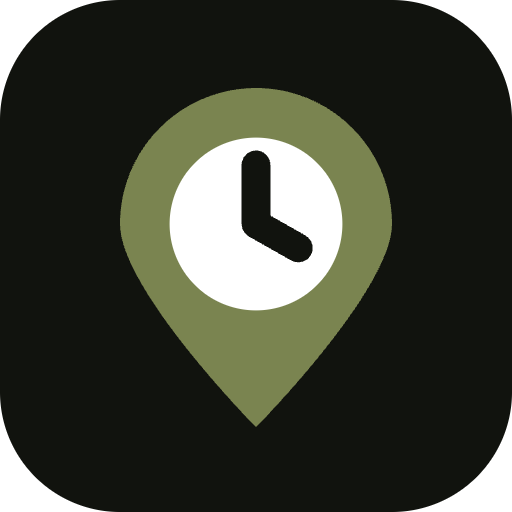
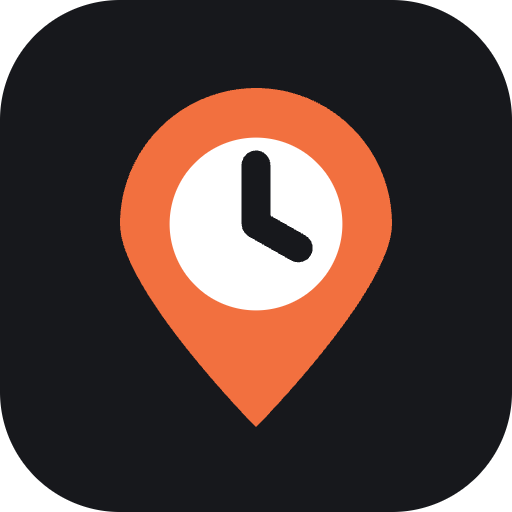
Nová paleta Mandarinka: téměř černá, mandarinková a neutrální pozadí
Olivová paleta se nelíbila. Barvy jsou v tokenech, logo, ikony aplikace (SVG i PNG),
mapa, univerzální obrázek služby, manifest a e-maily používají stejné hodnoty.
Textové kombinace splňují WCAG AA.

Changed region(s): [[0.2188, 0.1562, 0.7812, 0.8438]]

diff --git a/src/styles.css b/src/styles.css
@@ -10,26 +10,25 @@
      only for headlines and the wordmark — that is where the brand gets a voice. */
   --font-sans: 'Instrument Sans Variable', ui-sans-serif, system-ui, sans-serif;
 
-  /* FLEK: olive identity, sage/celadon surfaces, walnut emphasis.
-     Dark olive is the accessible text/button counterpart to brand olive. */
-  --color-surface: #f7f8f3;
+  /* FLEK „Mandarinka“: near-black ink, one warm tangerine, quiet neutral ground.
+     Brand is a FILL and a highlight on dark blocks (6.1:1 with ink both ways); on white it
+     is only ever a graphic, never text (2.9:1). Accent is the same hue darkened for links,
+     icons and outlines (5.5:1 on white). Every text pair here was measured against WCAG AA. */
+  --color-surface: #f6f5f3;
   --color-card: #ffffff;
-  --color-ink: #11130e;
-  --color-muted: #5c6055;
-  --color-line: #dce1d3;
-  --color-brand: #7a8450;
-  --color-sage: #aebd93;
-  --color-celadon: #bee7b8;
-  --color-walnut: #4c2e05;
-  --color-granite: #95969d;
-  --color-accent: #596337;
+  --color-ink: #17181c;
+  --color-muted: #5e616b;
+  --color-line: #e7e5e1;
+  --color-brand: #f2703f;
+  --color-brand-soft: #ffd9c6;
+  --color-accent: #b4460f;
   --color-accent-ink: #ffffff;
-  --color-accent-soft: #eef2e7;
-  --color-positive: #496337;
-  --color-warning: #805700;
-  --color-warning-soft: #fbf2df;
-  --color-danger: #a12d36;
-  --color-danger-soft: #fceeef;
+  --color-accent-soft: #fdeee6;
+  --color-positive: #1e7a4c;
+  --color-warning: #8a6100;
+  --color-warning-soft: #fff4d6;
+  --color-danger: #b3261e;
+  --color-danger-soft: #fdecea;
 
   /* The whole scale. Roles, so a new screen does not invent a thirteenth combination:
      2xl/800 page heading · xl/800 price and time · lg/800 section heading ·
@@ -52,8 +51,8 @@
   --radius-3xl: 2rem;
 
   /* Depth used to come from a hairline. These are what separate a card from the ground now. */
-  --shadow-card: 0 1px 2px rgb(34 40 43 / 0.05), 0 6px 16px -8px rgb(34 40 43 / 0.12);
-  --shadow-lift: 0 2px 4px rgb(34 40 43 / 0.06), 0 14px 32px -12px rgb(34 40 43 / 0.2);
+  --shadow-card: 0 1px 2px rgb(23 24 28 / 0.05), 0 6px 16px -8px rgb(23 24 28 / 0.12);
+  --shadow-lift: 0 2px 4px rgb(23 24 28 / 0.06), 0 14px 32px -12px rgb(23 24 28 / 0.2);
 }
 
 @layer base {
@@ -125,11 +124,11 @@
     color: var(--color-accent-ink);
   }
   .btn-primary:hover {
-    background: #11161a;
+    background: #2a2c33;
   }
 
-  /* A pin is the service itself: its photo in a compact FLEK tile over a walnut price tab.
-     Several places that overlap become one branded count with the lowest price below. */
+  /* A pin is the service itself: its photo in a compact FLEK tile over an ink price tab.
+     Several places that overlap become one ink count with a tangerine halo and the lowest price. */
   .map-pin,
   .map-cluster {
     position: relative;
@@ -159,7 +158,7 @@
     border: 2px solid var(--color-card);
     border-radius: 15px;
     background: var(--color-accent-soft);
-    box-shadow: 0 5px 12px -3px rgb(37 41 31 / 0.36);
+    box-shadow: 0 5px 12px -3px rgb(23 24 28 / 0.36);
     transition: border-color 150ms;
   }
   .map-pin-photo img { display: block; width: 100%; height: 100%; object-fit: cover; }
@@ -177,7 +176,7 @@
     margin-top: -8px;
     padding: 0 8px;
     border-radius: 8px;
-    background: var(--color-walnut);
+    background: var(--color-ink);
     color: var(--color-card);
     font-size: 0.8125rem;
     line-height: 1;
@@ -200,7 +199,7 @@
     box-shadow: 0 0 0 2px var(--color-card);
   }
   .map-pin.is-selected { z-index: 2; transform: translateY(-3px) scale(1.12); }
-  .map-pin.is-selected .map-pin-photo { border-color: var(--color-brand); box-shadow: 0 0 0 3px color-mix(in srgb, var(--color-brand) 35%, transparent), 0 6px 14px -3px rgb(37 41 31 / 0.4); }
+  .map-pin.is-selected .map-pin-photo { border-color: var(--color-brand); box-shadow: 0 0 0 3px color-mix(in srgb, var(--color-brand) 35%, transparent), 0 6px 14px -3px rgb(23 24 28 / 0.4); }
   .map-pin.is-selected .map-pin-price { background: var(--color-brand); color: var(--color-ink); }
 
   .map-cluster-count {
@@ -209,10 +208,10 @@
     width: 46px;
     height: 46px;
     border-radius: 15px;
-    background: var(--color-walnut);
+    background: var(--color-ink);
     color: var(--color-card);
     font-size: 1rem;
-    box-shadow: 0 0 0 5px rgb(174 189 147 / 0.6), 0 0 0 7px rgb(255 255 255 / 0.72), 0 6px 14px -4px rgb(37 41 31 / 0.4);
+    box-shadow: 0 0 0 5px rgb(242 112 63 / 0.45), 0 0 0 7px rgb(255 255 255 / 0.72), 0 6px 14px -4px rgb(23 24 28 / 0.4);
   }
   .map-cluster-price {
     margin-top: 2px;

diff --git a/supabase/templates/confirmation.html b/supabase/templates/confirmation.html
@@ -5,20 +5,20 @@
     <meta name="viewport" content="width=device-width, initial-scale=1">
     <title>Potvrď svůj e-mail pro FLEK</title>
   </head>
-  <body style="margin:0;background:#f7f8f3;color:#11130e;font-family:Arial,sans-serif">
+  <body style="margin:0;background:#f6f5f3;color:#17181c;font-family:Arial,sans-serif">
     <table role="presentation" width="100%" cellspacing="0" cellpadding="0" style="padding:32px 16px">
       <tr>
         <td align="center">
           <table role="presentation" width="100%" cellspacing="0" cellpadding="0" style="max-width:520px;background:#fff;border-radius:24px;padding:32px">
-            <tr><td style="font-size:34px;font-weight:800;letter-spacing:-1.5px">flek<span style="color:#7a8450">′</span></td></tr>
+            <tr><td style="font-size:34px;font-weight:800;letter-spacing:-1.5px">flek<span style="color:#f2703f">′</span></td></tr>
             <tr><td style="padding-top:28px;font-size:24px;font-weight:800">Potvrď svůj e-mail</td></tr>
-            <tr><td style="padding-top:12px;font-size:16px;line-height:1.55;color:#5c6055">Jedním kliknutím aktivuješ svůj účet a můžeš pokračovat tam, kde jsi skončil/a.</td></tr>
+            <tr><td style="padding-top:12px;font-size:16px;line-height:1.55;color:#5e616b">Jedním kliknutím aktivuješ svůj účet a můžeš pokračovat tam, kde jsi skončil/a.</td></tr>
             <tr>
               <td style="padding-top:24px">
-                <a href="{{ .SiteURL }}/potvrzeni?token_hash={{ .TokenHash }}&amp;type=email" style="display:block;border-radius:14px;background:#4c2e05;padding:15px 20px;color:#fff;text-align:center;font-size:16px;font-weight:700;text-decoration:none">Potvrdit e-mail</a>
+                <a href="{{ .SiteURL }}/potvrzeni?token_hash={{ .TokenHash }}&amp;type=email" style="display:block;border-radius:14px;background:#17181c;padding:15px 20px;color:#fff;text-align:center;font-size:16px;font-weight:700;text-decoration:none">Potvrdit e-mail</a>
               </td>
             </tr>
-            <tr><td style="padding-top:20px;font-size:13px;line-height:1.5;color:#5c6055">Pokud jsi účet nezakládal/a, e-mail můžeš ignorovat.</td></tr>
+            <tr><td style="padding-top:20px;font-size:13px;line-height:1.5;color:#5e616b">Pokud jsi účet nezakládal/a, e-mail můžeš ignorovat.</td></tr>
           </table>
         </td>
       </tr>

diff --git a/supabase/templates/recovery.html b/supabase/templates/recovery.html
@@ -5,20 +5,20 @@
     <meta name="viewport" content="width=device-width, initial-scale=1">
     <title>Obnova hesla — FLEK</title>
   </head>
-  <body style="margin:0;background:#f7f8f3;color:#11130e;font-family:Arial,sans-serif">
+  <body style="margin:0;background:#f6f5f3;color:#17181c;font-family:Arial,sans-serif">
     <table role="presentation" width="100%" cellspacing="0" cellpadding="0" style="padding:32px 16px">
       <tr>
         <td align="center">
           <table role="presentation" width="100%" cellspacing="0" cellpadding="0" style="max-width:520px;background:#fff;border-radius:24px;padding:32px">
-            <tr><td style="font-size:34px;font-weight:800;letter-spacing:-1.5px">flek<span style="color:#7a8450">′</span></td></tr>
+            <tr><td style="font-size:34px;font-weight:800;letter-spacing:-1.5px">flek<span style="color:#f2703f">′</span></td></tr>
             <tr><td style="padding-top:28px;font-size:24px;font-weight:800">Nastav si nové heslo</td></tr>
-            <tr><td style="padding-top:12px;font-size:16px;line-height:1.55;color:#5c6055">Otevři odkaz a nastav si nové heslo k účtu FLEK.</td></tr>
+            <tr><td style="padding-top:12px;font-size:16px;line-height:1.55;color:#5e616b">Otevři odkaz a nastav si nové heslo k účtu FLEK.</td></tr>
             <tr>
               <td style="padding-top:24px">
-                <a href="{{ .SiteURL }}/prihlaseni?mode=reset&amp;token_hash={{ .TokenHash }}&amp;type=recovery" style="display:block;border-radius:14px;background:#4c2e05;padding:15px 20px;color:#fff;text-align:center;font-size:16px;font-weight:700;text-decoration:none">Nastavit heslo</a>
+                <a href="{{ .SiteURL }}/prihlaseni?mode=reset&amp;token_hash={{ .TokenHash }}&amp;type=recovery" style="display:block;border-radius:14px;background:#17181c;padding:15px 20px;color:#fff;text-align:center;font-size:16px;font-weight:700;text-decoration:none">Nastavit heslo</a>
               </td>
             </tr>
-            <tr><td style="padding-top:20px;font-size:13px;line-height:1.5;color:#5c6055">Pokud jsi o změnu hesla nežádal/a, e-mail můžeš ignorovat.</td></tr>
+            <tr><td style="padding-top:20px;font-size:13px;line-height:1.5;color:#5e616b">Pokud jsi o změnu hesla nežádal/a, e-mail můžeš ignorovat.</td></tr>
           </table>
         </td>
       </tr>

diff --git a/supabase/functions/notification-delivery/index.ts b/supabase/functions/notification-delivery/index.ts
@@ -8,7 +8,7 @@ function escapeHtml(value: string): string {
 }
 
 function emailHtml(title: string, body: string, href: string): string {
-  return `<!doctype html><html lang="cs"><body style="margin:0;background:#f7f8f3;color:#11130e;font-family:Arial,sans-serif"><table role="presentation" width="100%" cellspacing="0" cellpadding="0" style="padding:32px 16px"><tr><td align="center"><table role="presentation" width="100%" cellspacing="0" cellpadding="0" style="max-width:520px;background:#fff;border-radius:24px;padding:32px"><tr><td style="font-size:34px;font-weight:800;letter-spacing:-1.5px">flek<span style="color:#7a8450">′</span></td></tr><tr><td style="padding-top:28px;font-size:24px;font-weight:800">${escapeHtml(title)}</td></tr><tr><td style="padding-top:12px;font-size:16px;line-height:1.55;color:#5c6055">${escapeHtml(body)}</td></tr><tr><td style="padding-top:24px"><a href="https://www.app-flek.eu${href}" style="display:block;border-radius:14px;background:#4c2e05;padding:15px 20px;color:#fff;text-align:center;font-size:16px;font-weight:700;text-decoration:none">Otevřít rezervace</a></td></tr></table></td></tr></table></body></html>`;
+  return `<!doctype html><html lang="cs"><body style="margin:0;background:#f6f5f3;color:#17181c;font-family:Arial,sans-serif"><table role="presentation" width="100%" cellspacing="0" cellpadding="0" style="padding:32px 16px"><tr><td align="center"><table role="presentation" width="100%" cellspacing="0" cellpadding="0" style="max-width:520px;background:#fff;border-radius:24px;padding:32px"><tr><td style="font-size:34px;font-weight:800;letter-spacing:-1.5px">flek<span style="color:#f2703f">′</span></td></tr><tr><td style="padding-top:28px;font-size:24px;font-weight:800">${escapeHtml(title)}</td></tr><tr><td style="padding-top:12px;font-size:16px;line-height:1.55;color:#5e616b">${escapeHtml(body)}</td></tr><tr><td style="padding-top:24px"><a href="https://www.app-flek.eu${href}" style="display:block;border-radius:14px;background:#17181c;padding:15px 20px;color:#fff;text-align:center;font-size:16px;font-weight:700;text-decoration:none">Otevřít rezervace</a></td></tr></table></td></tr></table></body></html>`;
 }
 
 // Called only by the database (booking trigger and cron via pg_net) with the worker secret it keeps

diff --git a/src/components/ui.tsx b/src/components/ui.tsx
@@ -113,9 +113,9 @@ export function buttonClass({
     // Padding lives with the size, not the base: a later `px-2` cannot beat a `px-4` that
     // Tailwind happens to emit after it, which is how a short button quietly wrapped its label.
     size === 'lg' ? 'min-h-13 gap-2 px-5 text-base' : size === 'sm' ? 'gap-1.5 px-2.5 text-sm whitespace-nowrap' : 'gap-2 px-4 text-sm',
-    variant === 'primary' && 'bg-ink text-accent-ink hover:bg-[#171b16]',
+    variant === 'primary' && 'bg-ink text-accent-ink hover:bg-[#2a2c33]',
     variant === 'secondary' && 'border border-line bg-card text-ink hover:bg-surface',
-    variant === 'soft' && 'bg-line text-ink hover:bg-sage',
+    variant === 'soft' && 'bg-line text-ink hover:bg-brand-soft',
     variant === 'ghost' && 'text-ink hover:bg-line/50',
     variant === 'danger' && 'border border-danger/25 bg-card text-danger hover:bg-danger/5',
   );
@@ -548,7 +548,7 @@ export function PromoCard({
       {...rest}
       className={cx(
         'relative overflow-hidden rounded-3xl p-5 shadow-card sm:p-6',
-        tone === 'dark' ? 'bg-ink text-card' : 'bg-[linear-gradient(135deg,#7a8450_0%,#bee7b8_100%)] text-ink',
+        tone === 'dark' ? 'bg-ink text-card' : 'bg-[linear-gradient(135deg,#f2703f_0%,#ffb48a_100%)] text-ink',
         className,
       )}
     >

diff --git a/src/features/onboarding/FirstVisitIntro.tsx b/src/features/onboarding/FirstVisitIntro.tsx
@@ -152,7 +152,7 @@ function IntroVisual({ index, playing }: { index: number; playing: boolean }) {
   if (index === 0) {
     return (
       <div className="relative mx-auto aspect-[5/4] w-full max-w-sm overflow-hidden rounded-3xl bg-accent-soft shadow-card" aria-hidden="true">
-        <div className="absolute inset-0 opacity-55" style={{ backgroundImage: 'linear-gradient(30deg, transparent 46%, #aebd93 47%, #aebd93 50%, transparent 51%), linear-gradient(120deg, transparent 44%, #aebd93 45%, #aebd93 48%, transparent 49%)', backgroundSize: '80px 80px' }} />
+        <div className="absolute inset-0 opacity-55" style={{ backgroundImage: 'linear-gradient(30deg, transparent 46%, #ffd9c6 47%, #ffd9c6 50%, transparent 51%), linear-gradient(120deg, transparent 44%, #ffd9c6 45%, #ffd9c6 48%, transparent 49%)', backgroundSize: '80px 80px' }} />
         <span className="absolute top-[22%] left-[14%] rounded-full bg-card px-3 py-2 text-sm font-extrabold shadow-lift">od 225 Kč</span>
         <span className="absolute top-[48%] right-[9%] rounded-full bg-card px-3 py-2 text-sm font-extrabold shadow-lift">350 Kč</span>
         <span className="absolute bottom-[14%] left-[36%] grid size-14 place-items-center rounded-full bg-brand text-ink shadow-lift"><MapPin size={27} aria-hidden="true" /></span>

diff --git a/src/main.tsx b/src/main.tsx
@@ -18,7 +18,7 @@ function MissingConfig() {
         margin: '0 auto',
         padding: '3rem 1.25rem',
         fontFamily: "'Instrument Sans Variable', system-ui, sans-serif",
-        color: '#11130e',
+        color: '#17181c',
       }}
     >
       <h1 style={{ fontSize: '1.25rem', fontWeight: 800, margin: 0 }}>FLEK nemá připojení k databázi.</h1>
@@ -26,7 +26,7 @@ function MissingConfig() {
         Chybí nastavení <code>VITE_SUPABASE_URL</code> a <code>VITE_SUPABASE_ANON_KEY</code>. Obě proměnné musí být
         dostupné <strong>při sestavení</strong> — po jejich doplnění je potřeba nasadit znovu.
       </p>
-      <p style={{ marginTop: '0.75rem', lineHeight: 1.6, color: '#5c6055' }}>
+      <p style={{ marginTop: '0.75rem', lineHeight: 1.6, color: '#5e616b' }}>
         Lokálně je zapíše <code>npm run db:start</code> do <code>.env.local</code>.
       </p>
     </main>

diff --git a/src/features/profile/CustomerFlekStats.tsx b/src/features/profile/CustomerFlekStats.tsx
@@ -40,7 +40,7 @@ export function CustomerFlekStats({ userId }: { userId: string }) {
         <p className="text-sm font-bold text-brand">Tvůj FLEK</p>
         <h2 className="mt-2 max-w-xs text-xl leading-snug font-extrabold tracking-tight">První FLEK na tebe čeká</h2>
         <p className="mt-2 max-w-xs text-base text-card/75">Chyť volný FLEK se slevou a tady uvidíš, kolik ušetříš.</p>
-        <Link to="/" className="relative mt-5 inline-flex min-h-11 items-center rounded-full bg-brand px-5 text-sm font-bold text-ink hover:bg-sage">
+        <Link to="/" className="relative mt-5 inline-flex min-h-11 items-center rounded-full bg-brand px-5 text-sm font-bold text-ink hover:bg-brand-soft">
           Objevit FLEKy
         </Link>
       </PromoCard>

diff --git a/index.html b/index.html
@@ -3,7 +3,7 @@
   <head>
     <meta charset="utf-8" />
     <meta name="viewport" content="width=device-width, initial-scale=1, viewport-fit=cover" />
-    <meta name="theme-color" content="#f7f8f3" />
+    <meta name="theme-color" content="#f6f5f3" />
     <meta name="description" content="FLEK — volná místa na poslední chvíli v okolí se slevou. Rezervuješ a zaplatíš v aplikaci, v podniku ukážeš kód." />
     <meta property="og:type" content="website" />
     <meta property="og:site_name" content="FLEK" />

diff --git a/src/features/bookings/Voucher.tsx b/src/features/bookings/Voucher.tsx
@@ -16,7 +16,7 @@ export function Voucher({ code }: { code: string }) {
     // Loaded on demand: the encoder is only ever needed on this one screen.
     import('qrcode')
       .then((mod) =>
-        mod.default.toDataURL(target, { width: 480, margin: 1, color: { dark: '#253130', light: '#ffffff' } }),
+        mod.default.toDataURL(target, { width: 480, margin: 1, color: { dark: '#17181c', light: '#ffffff' } }),
       )
       .then((url) => active && setQr(url))
       .catch(() => active && setFailed(true));

diff --git a/src/features/favorites/FavoriteButton.tsx b/src/features/favorites/FavoriteButton.tsx
@@ -76,7 +76,7 @@ export function FavoriteButton({
           variant === 'cta' &&
             cx(
               'min-h-13 w-full justify-center gap-2 rounded-xl px-5 text-base',
-              isFavorite ? 'bg-accent-soft text-accent' : 'bg-ink text-accent-ink hover:bg-[#171b16]',
+              isFavorite ? 'bg-accent-soft text-accent' : 'bg-ink text-accent-ink hover:bg-[#2a2c33]',
             ),
           variant === 'chip' &&
             cx(
